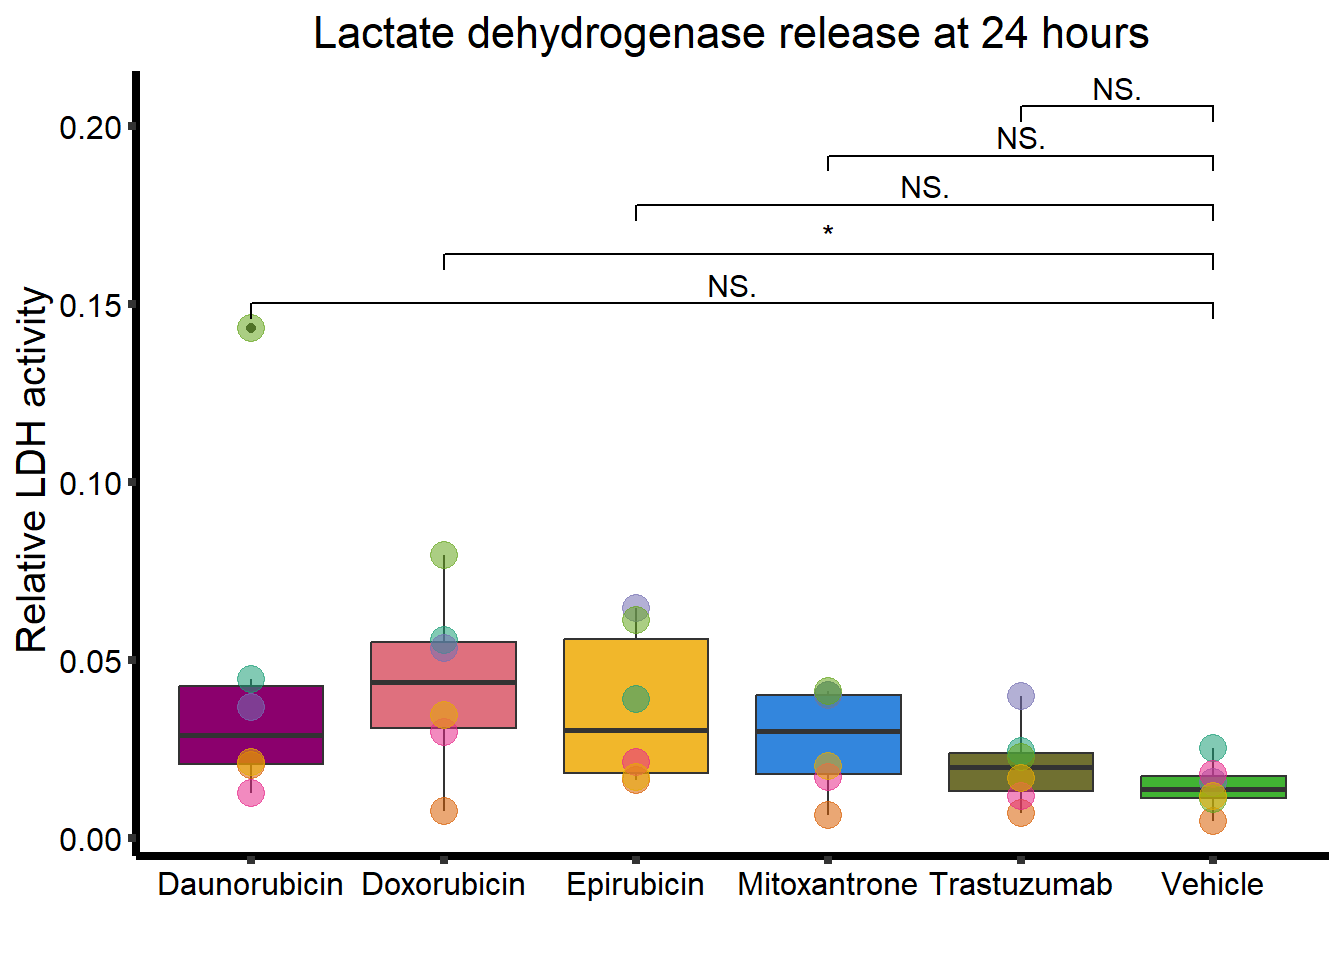
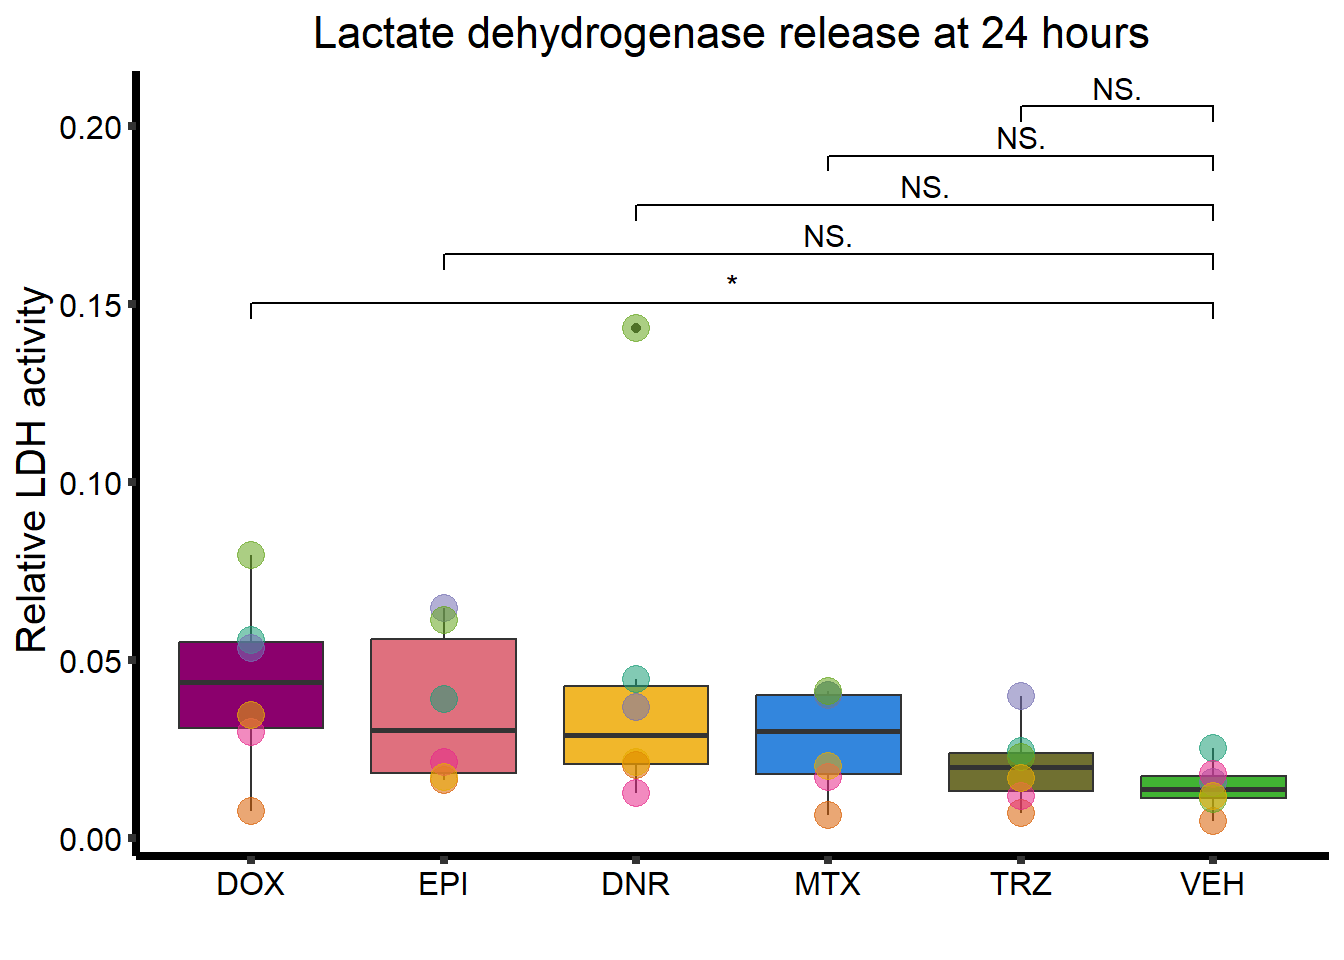
Build site.

diff --git a/docs/Figure2.html b/docs/Figure2.html
@@ -11,7 +11,7 @@
 
 <meta name="author" content="ERM" />
 
-<meta name="date" content="2023-06-27" />
+<meta name="date" content="2023-07-06" />
 
 <title>Figure2</title>
 
@@ -361,7 +361,7 @@ div.tocify {
 
 <h1 class="title toc-ignore">Figure2</h1>
 <h4 class="author">ERM</h4>
-<h4 class="date">2023-06-27</h4>
+<h4 class="date">2023-07-06</h4>
 
 </div>
 
@@ -390,7 +390,7 @@ class="glyphicon glyphicon-ok text-success" aria-hidden="true"></span>
 <div class="tab-content">
 <div id="summary" class="tab-pane fade in active">
 <p>
-<strong>Last updated:</strong> 2023-06-27
+<strong>Last updated:</strong> 2023-07-06
 </p>
 <p>
 <strong>Checks:</strong> <span
@@ -521,15 +521,15 @@ project makes it easier to run your code on other machines.</p>
 <div class="panel panel-default">
 <div class="panel-heading">
 <p class="panel-title">
-<a data-toggle="collapse" data-parent="#workflowr-checks" href="#strongRepositoryversionstrongahrefhttpsgithubcomreneeisnowhereCardiotoxicitytree9719ccdcd7bb771e3ed01fa19b4334dbafb12572targetblank9719ccda">
+<a data-toggle="collapse" data-parent="#workflowr-checks" href="#strongRepositoryversionstrongahrefhttpsgithubcomreneeisnowhereCardiotoxicitytreeb94a1e03c71cb37e5ccf788c8ba1204f61031e2ctargetblankb94a1e0a">
 <span class="glyphicon glyphicon-ok text-success"
 aria-hidden="true"></span> <strong>Repository version:</strong>
-<a href="https://github.com/reneeisnowhere/Cardiotoxicity/tree/9719ccdcd7bb771e3ed01fa19b4334dbafb12572" target="_blank">9719ccd</a>
+<a href="https://github.com/reneeisnowhere/Cardiotoxicity/tree/b94a1e03c71cb37e5ccf788c8ba1204f61031e2c" target="_blank">b94a1e0</a>
 </a>
 </p>
 </div>
 <div
[2 lines of base64/hex data omitted]
 class="panel-collapse collapse">
 <div class="panel-body">
 <p>
@@ -539,7 +539,7 @@ reproducibility.
 </p>
 <p>
 The results in this page were generated with repository version
-<a href="https://github.com/reneeisnowhere/Cardiotoxicity/tree/9719ccdcd7bb771e3ed01fa19b4334dbafb12572" target="_blank">9719ccd</a>.
+<a href="https://github.com/reneeisnowhere/Cardiotoxicity/tree/b94a1e03c71cb37e5ccf788c8ba1204f61031e2c" target="_blank">b94a1e0</a>.
 See the <em>Past versions</em> tab to see a history of the changes made
 to the R Markdown and HTML files.
 </p>
@@ -563,6 +563,7 @@ Ignored files:
     Ignored:    data/BC_cell_lines.csv
     Ignored:    data/CADGWASgene_table.csv
     Ignored:    data/CAD_geneset.RDS
+    Ignored:    data/CALIMA_Data/
     Ignored:    data/Clamp_Summary.csv
     Ignored:    data/Cormotif_24_k1-5_raw.RDS
     Ignored:    data/DAgostres24.RDS
@@ -581,6 +582,7 @@ Ignored files:
     Ignored:    data/GOIsig.csv
     Ignored:    data/GOplots.R
     Ignored:    data/GTEX_setsimple.csv
+    Ignored:    data/GTEX_sig24.RDS
     Ignored:    data/GTEx_gene_list.csv
     Ignored:    data/HFGWASgene_table.csv
     Ignored:    data/HF_geneset.RDS
@@ -592,8 +594,10 @@ Ignored files:
     Ignored:    data/LD50_05via.csv
     Ignored:    data/LDH48hoursdata.csv
     Ignored:    data/Mt24counts.txt
+    Ignored:    data/NoRespDEG_final.csv
     Ignored:    data/RINsamplelist.txt
     Ignored:    data/Seonane2019supp1.txt
+    Ignored:    data/TMMnormed_x.RDS
     Ignored:    data/TOP2Bi-24hoursGO_analysis.csv
     Ignored:    data/TR24counts.txt
     Ignored:    data/Top2biresp_cluster24h.csv
@@ -601,8 +605,11 @@ Ignored files:
     Ignored:    data/allexpressedgenes.txt
     Ignored:    data/allgenes.txt
     Ignored:    data/allmatrix.RDS
+    Ignored:    data/allmymatrix.RDS
+    Ignored:    data/annotation_data_frame.RDS
     Ignored:    data/averageviabilitytable.RDS
     Ignored:    data/avgLD50.RDS
+    Ignored:    data/avg_LD50.RDS
     Ignored:    data/backGL.txt
     Ignored:    data/cormotif_3hk1-8.RDS
     Ignored:    data/cormotif_initalK5.RDS
@@ -645,6 +652,7 @@ Ignored files:
     Ignored:    data/kegglistDEG.RDS
     Ignored:    data/knowfig4.csv
     Ignored:    data/knowfig5.csv
+    Ignored:    data/label_list.RDS
     Ignored:    data/ld50_table.csv
     Ignored:    data/mymatrix.RDS
     Ignored:    data/nonresponse_cluster24h.csv
@@ -666,6 +674,7 @@ Ignored files:
     Ignored:    data/sigVTR3.txt
     Ignored:    data/siglist.RDS
     Ignored:    data/siglist_final.RDS
+    Ignored:    data/siglist_old.RDS
     Ignored:    data/slope_table.csv
     Ignored:    data/supp_normLDH48.RDS
     Ignored:    data/supp_pca_all_anno.RDS
@@ -680,14 +689,21 @@ Untracked files:
     Untracked:  .RDataTmp
     Untracked:  .RDataTmp1
     Untracked:  .RDataTmp2
+    Untracked:  Doxorubicin_vehicle_3_24.csv
+    Untracked:  Doxtoplist.csv
+    Untracked:  GWAS_list_of_interest.xlsx
     Untracked:  OmicNavigator_learn.R
-    Untracked:  analysis/Figure3.Rmd
-    Untracked:  analysis/Figure4.Rmd
+    Untracked:  SigDoxtoplist.csv
+    Untracked:  analysis/export_to_excel.R
     Untracked:  code/DRC_plotfigure1.png
+    Untracked:  code/constantcode.R
     Untracked:  code/cpm_boxplot.R
     Untracked:  code/extracting_ggplot_data.R
     Untracked:  code/fig1plot.png
     Untracked:  code/figurelegeddrc.png
+    Untracked:  code/movingfilesto_ppl.R
+    Untracked:  code/pearson_extract_func.R
+    Untracked:  code/spearman_extract_func.R
     Untracked:  cormotif_probability_genelist.csv
     Untracked:  individual-legenddark2.png
     Untracked:  installed_old.rda
@@ -702,6 +718,7 @@ Untracked files:
     Untracked:  output/Volcanoplot_10
     Untracked:  output/Volcanoplot_10.RDS
     Untracked:  output/allfinal_sup10.RDS
+    Untracked:  output/gene_corr_fig9.RDS
     Untracked:  output/motif_ERrep.RDS
     Untracked:  output/motif_LRrep.RDS
     Untracked:  output/motif_NRrep.RDS
@@ -713,8 +730,24 @@ Untracked files:
     Untracked:  reneebasecode.R
 
 Unstaged changes:
-    Modified:   analysis/DEG-GO_analysis.Rmd
+    Modified:   Cardiotoxicity.Rproj
+    Modified:   analysis/DRC_analysis.Rmd
     Modified:   analysis/Figure1.Rmd
+    Modified:   analysis/GOI_plots.Rmd
+    Modified:   analysis/Supplementary_figures.Rmd
+    Modified:   analysis/other_analysis.Rmd
+    Modified:   output/DNRmeSNPs.RDS
+    Modified:   output/DNRreQTLs.RDS
+    Modified:   output/DOXmeSNPs.RDS
+    Modified:   output/DOXreQTLs.RDS
+    Modified:   output/EPImeSNPs.RDS
+    Modified:   output/EPIreQTLs.RDS
+    Modified:   output/GOI_genelist.txt
+    Modified:   output/MTXmeSNPs.RDS
+    Modified:   output/MTXreQTLs.RDS
+    Modified:   output/TNNI_LDH_RNAnormlist.txt
+    Modified:   output/knowles4.RDS
+    Modified:   output/knowles5.RDS
     Modified:   output/toplistall.csv
 
 </code></pre>
@@ -761,6 +794,40 @@ Message
 </tr>
 </thead>
 <tbody>
+<tr>
+<td>
+Rmd
+</td>
+<td>
+<a href="https://github.com/reneeisnowhere/Cardiotoxicity/blob/b94a1e03c71cb37e5ccf788c8ba1204f61031e2c/analysis/Figure2.Rmd" target="_blank">b94a1e0</a>
+</td>
+<td>
+reneeisnowhere
+</td>
+<td>
+2023-07-06
+</td>
+<td>
+adding fig 2 updates
+</td>
+</tr>
+<tr>
+<td>
+html
+</td>
+<td>
+<a href="https://rawcdn.githack.com/reneeisnowhere/Cardiotoxicity/23792323ce24e0845e4ff72c33c893596926cdb0/docs/Figure2.html" target="_blank">2379232</a>
+</td>
+<td>
+reneeisnowhere
+</td>
+<td>
+2023-06-27
+</td>
+<td>
+Build site.
+</td>
+</tr>
 <tr>
 <td>
 Rmd
@@ -852,21 +919,21 @@ RNAnormlist &lt;- read.csv(&quot;output/TNNI_LDH_RNAnormlist.txt&quot;,row.names
 
 
 RNAnormlist %&gt;% 
-  mutate(Drug = factor(Drug, levels = c(  &quot;Daunorubicin&quot;, 
-                                          &quot;Doxorubicin&quot;,
-                                          &quot;Epirubicin&quot;,
-                                          &quot;Mitoxantrone&quot;,
-                                          &quot;Trastuzumab&quot;,
-                                          &quot;Vehicle&quot;))) %&gt;%
+  mutate(Drug = factor(Drug, levels = c(  &quot;DOX&quot;,
+                                          &quot;EPI&quot;,
+                                          &quot;DNR&quot;,
+                                          &quot;MTX&quot;,
+                                          &quot;TRZ&quot;,
+                                          &quot;VEH&quot;))) %&gt;%
  mutate(indv= factor(indv,levels= level_order2)) %&gt;% 
   ggplot(., aes(x=Drug, y=rldh))+
   geom_boxplot(position = &quot;identity&quot;, fill = drug_pal_fact)+
   geom_point(aes(col=indv, size =3,alpha=0.5))+
-  geom_signif(comparisons =list(c(&quot;Vehicle&quot;,&quot;Daunorubicin&quot;),
-                                c(&quot;Vehicle&quot;,&quot;Doxorubicin&quot;),
-                                c(&quot;Vehicle&quot;,&quot;Epirubicin&quot;),
-                                c(&quot;Vehicle&quot;,&quot;Mitoxantrone&quot;),
-                                c(&quot;Vehicle&quot;,&quot;Trastuzumab&quot;)),
+ geom_signif(comparisons =list(c(&quot;VEH&quot;,&quot;DOX&quot;),
+                                c(&quot;VEH&quot;,&quot;EPI&quot;),
+                                c(&quot;VEH&quot;,&quot;DNR&quot;),
+                                c(&quot;VEH&quot;,&quot;MTX&quot;),
+                                c(&quot;VEH&quot;,&quot;TRZ&quot;)),
               test=&quot;t.test&quot;,
               map_signif_level=TRUE,
               textsize =4,
@@ -889,21 +956,21 @@ RNAnormlist %&gt;%
 <p><img src="figure/Figure2.Rmd/LDH,data%20load-1.png" width="672" style="display: block; margin: auto;" />
 ## C. Troponin I release</p>
 <pre class="r"><code>RNAnormlist %&gt;% 
-  mutate(Drug = factor(Drug, levels = c(  &quot;Daunorubicin&quot;, 
-                                          &quot;Doxorubicin&quot;,
-                                          &quot;Epirubicin&quot;,
-                                          &quot;Mitoxantrone&quot;,
-                                          &quot;Trastuzumab&quot;,
-                                          &quot;Vehicle&quot;))) %&gt;%
+  mutate(Drug = factor(Drug, levels = c(  &quot;DOX&quot;,
+                                          &quot;EPI&quot;,
+                                          &quot;DNR&quot;,
+                                          &quot;MTX&quot;,
+                                          &quot;TRZ&quot;,
+                                          &quot;VEH&quot;))) %&gt;%
  mutate(indv= factor(indv,levels= level_order2)) %&gt;% 
   ggplot(., aes(x=Drug, y=rldh))+
   geom_boxplot(position = &quot;identity&quot;, fill = drug_pal_fact)+
   geom_point(aes(col=indv, size =3,alpha=0.5))+
-  geom_signif(comparisons =list(c(&quot;Vehicle&quot;,&quot;Daunorubicin&quot;),
-                                c(&quot;Vehicle&quot;,&quot;Doxorubicin&quot;),
-                                c(&quot;Vehicle&quot;,&quot;Epirubicin&quot;),
-                                c(&quot;Vehicle&quot;,&quot;Mitoxantrone&quot;),
-                                c(&quot;Vehicle&quot;,&quot;Trastuzumab&quot;)),
+  geom_signif(comparisons =list(c(&quot;VEH&quot;,&quot;DOX&quot;),
+                                c(&quot;VEH&quot;,&quot;EPI&quot;),
+                                c(&quot;VEH&quot;,&quot;DNR&quot;),
+                                c(&quot;VEH&quot;,&quot;MTX&quot;),
+                                c(&quot;VEH&quot;,&quot;TRZ&quot;)),
               test=&quot;t.test&quot;,
               map_signif_level=TRUE,
               textsize =4,
